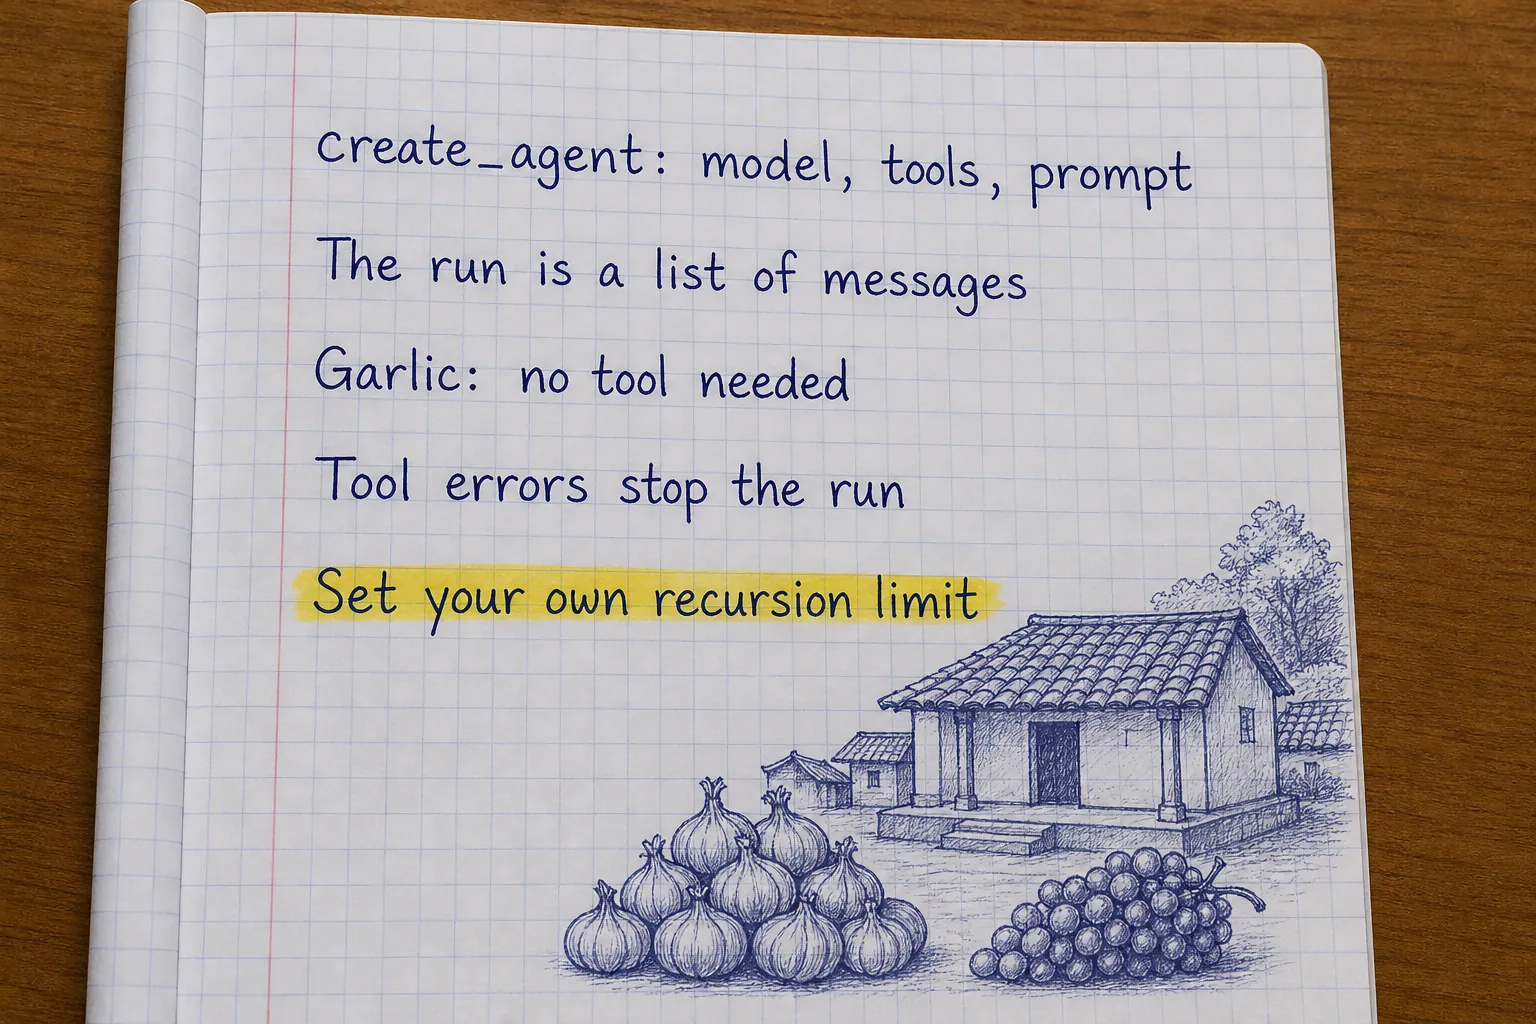
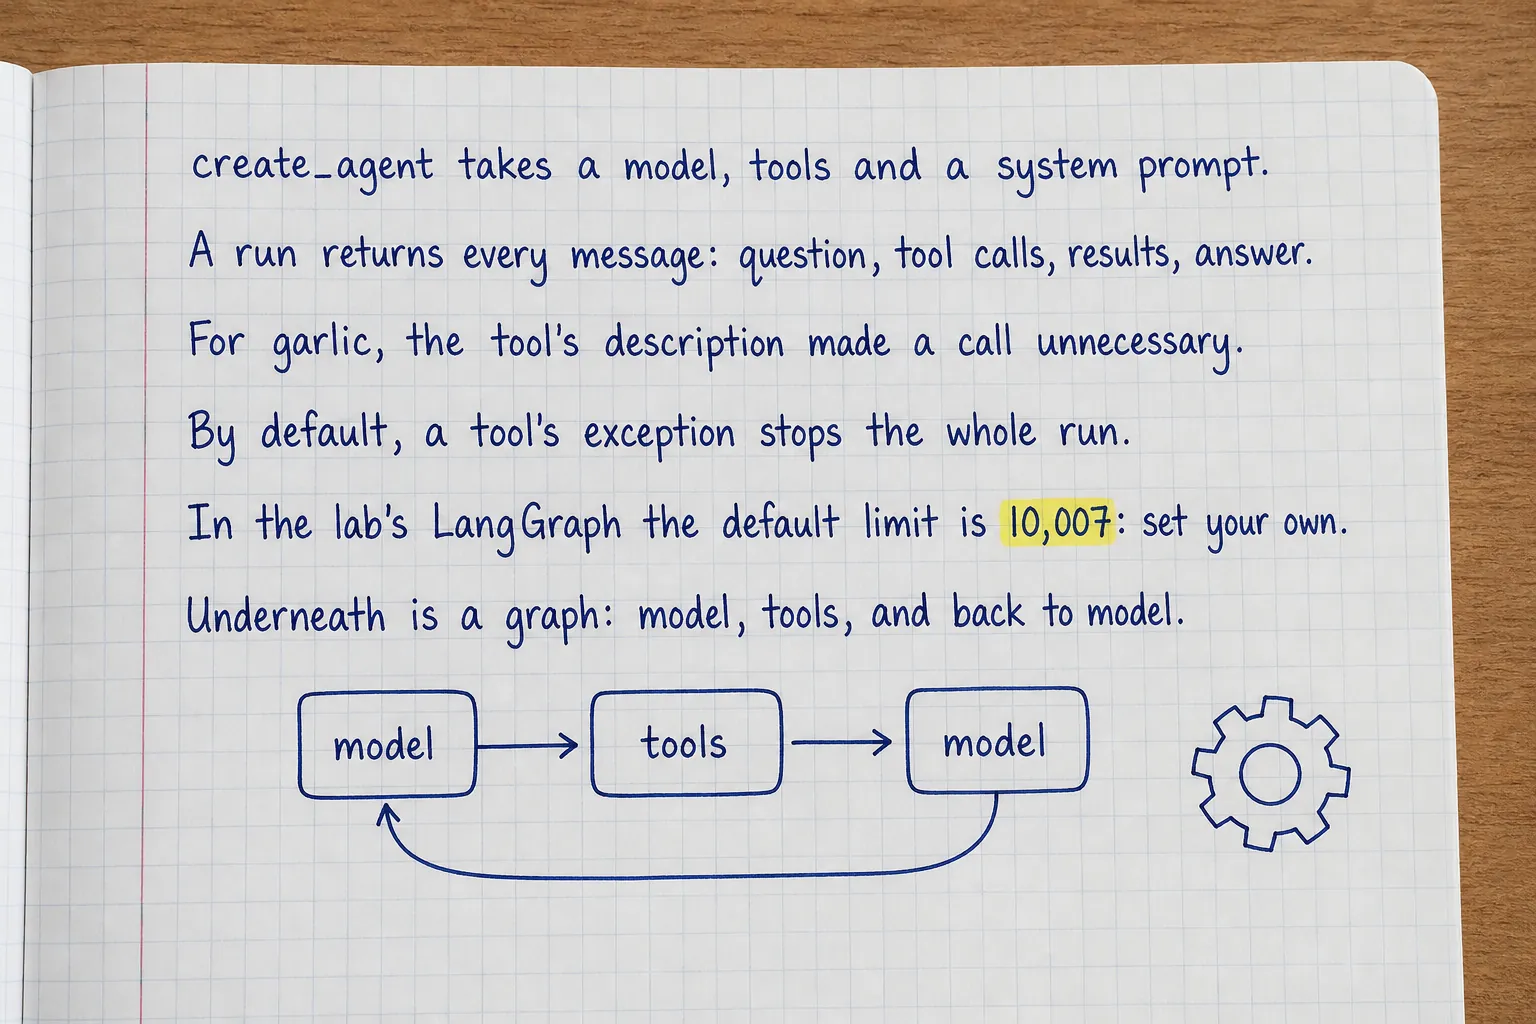
LangChain chapter 11 rewritten: plain and fuller, agent behaviour checked over three live runs

diff --git a/labs/langchain/chapters/11-create-agent.md b/labs/langchain/chapters/11-create-agent.md
@@ -4,7 +4,8 @@ a way to pause for a person's approval, retries when the model is busy, and limi
 run. Writing all that well is a lot of work, and every team would write it differently.
 
 LangChain's `create_agent` is that loop, finished: one function that takes a model, tools and instructions, and
-returns an agent you `invoke`. Underneath it is a small **LangGraph** graph with two steps, `model` and `tools`, and
+returns an agent you `invoke`. Underneath it is a small **LangGraph** graph: a program drawn as boxes (**nodes**) joined by arrows (**edges**), here two
+nodes, `model` and `tools`, with an arrow back from `tools` to `model`, and
 everything later in this course (memory, streaming, middleware, human approval) plugs into it.
 
 :::mission
@@ -23,7 +24,8 @@ result = agent.invoke({"messages": [{"role": "user", "content": "What does 25 cr
 result["messages"][-1].content                               # the answer
 ```
 
-The input and the output are the same shape, a **state** with a list of `messages`. The result holds every message of
+The input and the output are the same shape, a **state**: a dict the graph passes from node to node, here with a list
+of `messages`. The result holds every message of
 the run, exactly like the list your `agent_loop` grew: the question, the model's tool calls, the tool results, the
 answer.
 
@@ -60,6 +62,9 @@ old agent types. You will build the same kind of graph yourself in the LangGraph
 :::step{type=task task=first_agent title="Your turn: Navin as an agent" file="11-create-agent/agent.py" line="9-12"}
 Finish `navin_agent()`: return `create_agent("openai:ai-chat", tools=[mandi_price, storage_cost], system_prompt=SYSTEM)`.
 
+The usual slip: passing the tools as functions you call, `tools=[mandi_price(), ...]`. Pass the tools themselves;
+the agent calls them when the model asks.
+
 Press **Check**.
 :::
 
@@ -78,8 +83,14 @@ guess?"), and for cost (every tool round is another model call).
 :::
 
 :::step{type=task task=tools_used title="Your turn: which tools did it use?" file="11-create-agent/agent.py" line="15-19"}
-Finish `tools_used(result)`: go through `result["messages"]` and collect the `name` of every call in each message's
-`tool_calls` (only AI messages have them; use `getattr(m, "tool_calls", None) or []`), in order.
+Finish `tools_used(result)`:
+
+1. Go through `result["messages"]` in order.
+2. For each message, take its tool calls: `getattr(m, "tool_calls", None) or []` (only AI messages have them; the
+   `getattr` returns `None` for the others, and `or []` turns that into an empty list).
+3. Collect `call["name"]` for every call, and return the list.
+
+The usual slip: `m.tool_calls` directly, which fails on a `HumanMessage` or `ToolMessage`.
 
 ```bash run
 cd /workspace/11-create-agent && python main.py
@@ -89,6 +100,9 @@ Press **Check**.
 :::
 
 :::step{type=try title="One tool, and none"}
+A real run (we ran it twice more on 25 November: the same tools and message counts every time; the wording changed a
+little, "Rs 350" instead of "₹350"):
+
 ```text
 $ python main.py
 > What does it cost to keep 25 crates of tomatoes for a week?
@@ -155,7 +169,8 @@ Descriptions are instructions too. Chapter 12 is about writing them well.
 until the model answers without tool calls.
 
 **Recursion limit.** Instead of `max_steps`, LangGraph counts steps (each model call and each tool round) and stops at
-`recursion_limit`. In this version the default is **10,007**, effectively no limit, so pass your own:
+`recursion_limit`. In the lab's LangGraph (1.2.24) the default is **10,007**, unless the environment variable
+`LANGGRAPH_DEFAULT_RECURSION_LIMIT` sets another: effectively no limit, so pass your own:
 `agent.invoke(state, {"recursion_limit": 10})`. Chapter 22 adds limits per model call and per tool, too.
 
 **Models as objects.** Instead of a string you can pass a configured model, `create_agent(init_chat_model(...,
@@ -172,7 +187,7 @@ You can now:
 
 Next, chapter 12: writing tools well, and tools that know which member is asking.
 
-:::photo{src="/lesson-images/langchain/lc-11-notes.webp" alt="Handwritten notes about create_agent: create_agent: model, tools, prompt; The run is a list of messages; Garlic: no tool needed; Tool errors stop the run; Set your own recursion limit" ai="true"}
+:::photo{src="/lesson-images/langchain/lc-11-notes.webp" alt="Handwritten notes about create_agent: create_agent takes a model, tools and a system prompt. A run returns every message: question, tool calls, results, answer. For garlic, the tool's description made a call unnecessary. By default, a tool's exception stops the whole run. In the lab's LangGraph the default limit is 10,007: set your own. Underneath is a graph: model, tools, and back to model." ai="true"}
 One page of notes for this chapter.
 :::
 :::

diff --git a/CHANGELOG.md b/CHANGELOG.md
@@ -1,5 +1,14 @@
 # Changelog
 
+## 25 November: LangChain chapter 11 rewritten (easy, a little detailed, checked)
+
+- State, graph, nodes and edges are explained where they first appear; both tasks list their steps and the usual slips.
+- Checked by running the agent through the lab gateway three times: the tomatoes question always used one tool (4
+  messages, 350 rupees), the garlic question never called a tool (2 messages), "Hello!" gave 2 messages; the
+  `mandi_price` docstring is quoted exactly; LangGraph 1.2.24's default recursion limit is 10,007, now with its
+  environment variable; the graph printed by `draw_mermaid`. The runs are labelled (the wording changes: "Rs 350" or
+  "₹350"). A new notes page, the recursion limit labelled as the lab's version.
+
 ## 25 November: LangChain chapter 10 rewritten (easy, a little detailed, checked)
 
 - Tools, docstrings, type hints and JSON schemas are explained where they first appear; both tasks list their steps and

diff --git a/REWRITE_LIST.md b/REWRITE_LIST.md
@@ -11,7 +11,7 @@ Status: **1 of 23 labs done** (13 of 319 chapters).
 | # | Lab | Title | Chapters | Status | Done on |
 |---|---|---|---|---|---|
 | 1 | rag-vector-databases | RAG and vector databases | 13 | done (13 of 13) | 25 Nov |
-| 2 | langchain | LangChain | 27 | in progress (10 of 27) | |
+| 2 | langchain | LangChain | 27 | in progress (11 of 27) | |
 | 3 | langchain4j | LangChain4j | 30 | not started | |
 | 4 | langgraph | LangGraph | 24 | not started | |
 | 5 | spring-ai | Spring AI | 20 | not started | |
